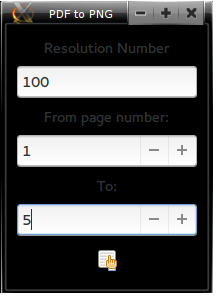
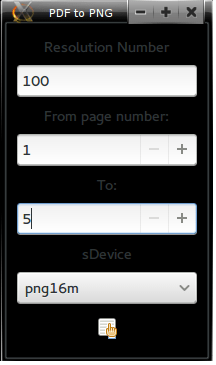
pdf2png

diff --git a/pdf2png_gui.py b/pdf2png_gui.py
@@ -5,27 +5,28 @@ from gi.repository import Gtk, Gdk
 
 
 class MainWindow(Gtk.Window):
-    def button_clicked(self, widget):
-        if self.spinbutton.get_text() > self.spinbutton2.get_text():
-            print("From and to page numbers are reversed")
-        else:
-            resolution_number = self.entry.get_text().isdigit()
-            if resolution_number is not False:
-                chooser_dialog = Gtk.FileChooserDialog(title="Select file"
-                ,action=Gtk.FileChooserAction.OPEN
-                ,buttons=["Convert", Gtk.ResponseType.OK, "Cancel", Gtk.ResponseType.CANCEL])
-                filter_pdf = Gtk.FileFilter()
-                filter_pdf.set_name("PDF Files")
-                filter_pdf.add_pattern("*.pdf")
-                chooser_dialog.add_filter(filter_pdf)
-                chooser_dialog.run()
-                filename = chooser_dialog.get_filename()
 
-                if filename is not None:
-                    self.pdf_to_png(chooser_dialog, filename)
-                chooser_dialog.destroy()
-            else:
-                self.RaiseWarning()
+    #def comboboxtext_changed(self, comboboxtext):
+    	#comboboxtext.get_active_text()
+
+    def button_clicked(self, widget):
+        resolution_number = self.entry.get_text().isdigit()
+        if resolution_number is not False:
+            chooser_dialog = Gtk.FileChooserDialog(title="Select file"
+            ,action=Gtk.FileChooserAction.OPEN
+            ,buttons=["Convert", Gtk.ResponseType.OK, "Cancel", Gtk.ResponseType.CANCEL])
+            filter_pdf = Gtk.FileFilter()
+            filter_pdf.set_name("PDF Files")
+            filter_pdf.add_pattern("*.pdf")
+            chooser_dialog.add_filter(filter_pdf)
+            chooser_dialog.run()
+            filename = chooser_dialog.get_filename()
+
+            if filename is not None:
+                self.pdf_to_png(chooser_dialog, filename)
+            chooser_dialog.destroy()
+        else:
+            self.RaiseWarning()
 
     def RaiseWarning(self):
         display_user_input = self.entry.get_text()
@@ -35,11 +36,12 @@ class MainWindow(Gtk.Window):
             "Please type a number in the field" )
         dialog.run()
         dialog.destroy()
+
     def pdf_to_png(self, chooser_dialog, pdffilepath):
         pdfname, ext = os.path.splitext(chooser_dialog.get_filename())
         resolution = self.entry.get_text()
         arglist = ["gs", "-dBATCH", "-dNOPAUSE", "-dFirstPage=%s" % self.spinbutton.get_text(), "-dLastPage=%s" % self.spinbutton2.get_text(),
-                  "-sOutputFile=%s" % pdfname + " page %01d.png", "-sDEVICE=png16m",
+                  "-sOutputFile=%s" % pdfname + " page %01d.png", "-sDEVICE=%s" % self.comboboxtext.get_active_text(),
                   "-r%s" % resolution, pdffilepath]
         sp = subprocess.Popen(args=arglist, stdout=subprocess.PIPE, stderr=subprocess.PIPE)
         sp.communicate()
@@ -91,12 +93,21 @@ class MainWindow(Gtk.Window):
         self.spinbutton2 = Gtk.SpinButton(adjustment=adjustment)
         vbox.add(self.spinbutton2)
 
+        label = Gtk.Label(label="sDevice")
+        vbox.add(label)
+        self.comboboxtext = Gtk.ComboBoxText()
+        self.comboboxtext.append("png16m", "png16m")
+        self.comboboxtext.append("pngalpha", "pngalpha")
+        self.comboboxtext.append("pnggray", "pnggray")
+        self.comboboxtext.set_active(0)
+        #self.comboboxtext.connect("changed", self.comboboxtext_changed)
+        vbox.add(self.comboboxtext)
+
         #self.button1 = Gtk.Button(label="Select file")
         self.button1 = Gtk.ToolButton(stock_id=Gtk.STOCK_INDEX)
         self.button1.connect("clicked", self.button_clicked)
         #self.button1.connect("clicked", reveal_child)
         vbox.pack_start(self.button1, True, True, 0)
-
 
 if __name__ == '__main__':
     win = MainWindow()
